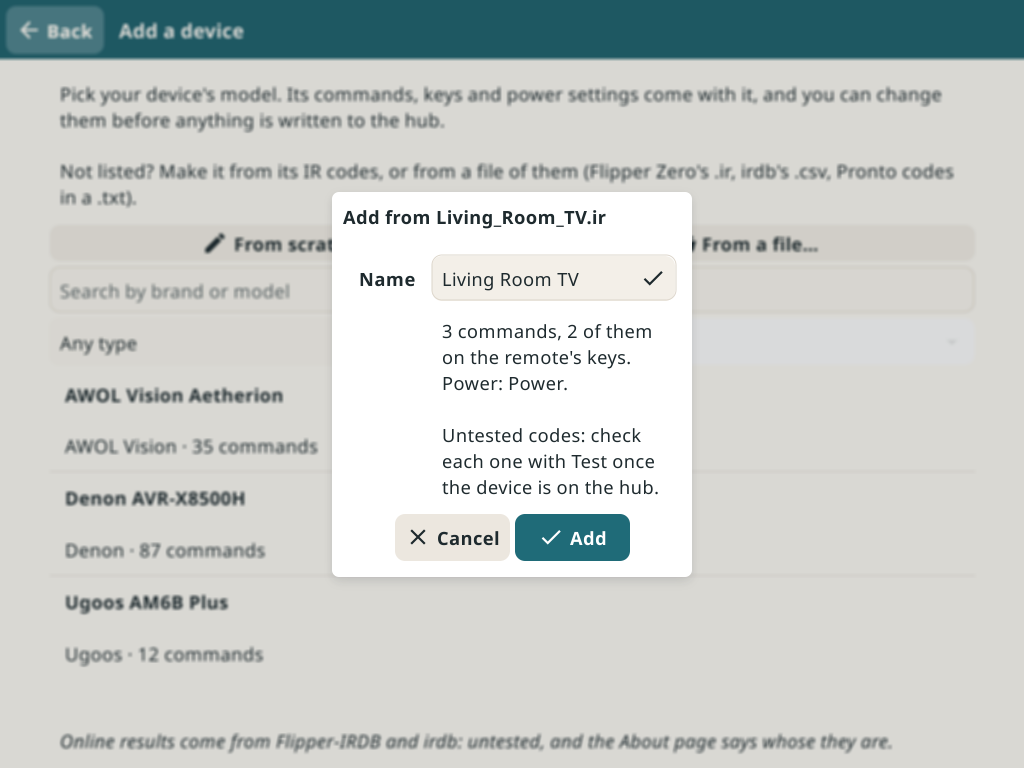
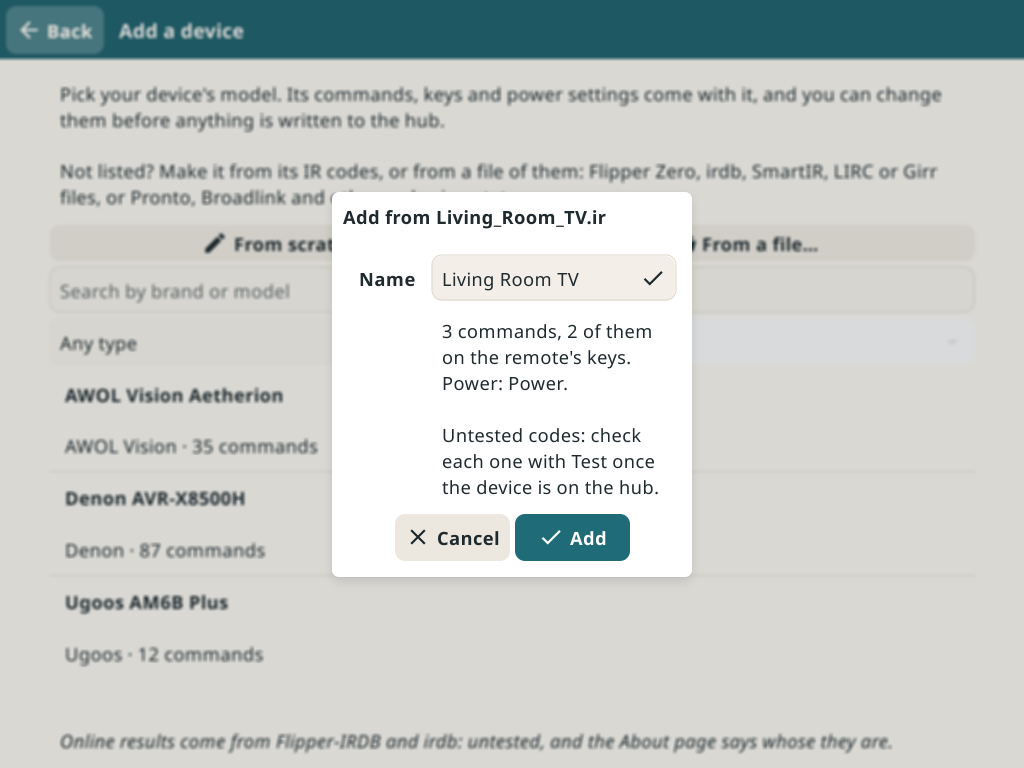
Add a device reads SmartIR, LIRC, Girr, and sendir, Broadlink and Unfolded Circle codes (#50)

Changed region(s): [[0.6875, 0.1875, 0.9375, 0.25], [0.0625, 0.25, 0.3438, 0.2812], [0.5625, 0.2188, 0.5938, 0.25]]

diff --git a/internal/workspace/irfile.go b/internal/workspace/irfile.go
@@ -13,7 +13,7 @@ import (
 )
 
 // IRFileExts are the extensions of the files of IR codes FromIRFile reads.
-var IRFileExts = []string{".ir", ".csv", ".txt"}
+var IRFileExts = []string{".ir", ".csv", ".json", ".conf", ".lircd", ".girr", ".xml", ".txt"}
 
 // Imported is a device made of a file of IR codes, with the codes left
 // out of it.
@@ -23,9 +23,11 @@ type Imported struct {
 }
 
 // FromIRFile makes a device of a file of IR codes named file: Flipper
-// Zero's .ir, irdb's .csv, or Pronto codes (.txt). Its commands named like a key of the remote
-// are set on that key, and its power commands make its power; codes the
-// X2 cannot send yet are left out, and listed.
+// Zero's .ir, irdb's .csv, SmartIR's .json, LIRC's .conf, Girr, or codes
+// one a line in a .txt (Pronto, sendir, Broadlink, Unfolded Circle). Its
+// commands named like a key of the remote are set on that key, and its
+// power commands make its power; codes the X2 cannot send are left out,
+// and listed.
 func FromIRFile(file string, r io.Reader) (*Imported, error) {
 	sigs, err := irfile.Read(file, r)
 	if err != nil {

diff --git a/internal/ui/edit.go b/internal/ui/edit.go
@@ -165,7 +165,7 @@ func (a *App) showAddDevice() {
 	scratch := widget.NewButtonWithIcon(i18n.T("From scratch"), theme.DocumentCreateIcon(), a.showScratch)
 	fromFile := widget.NewButtonWithIcon(i18n.T("From a file…"), theme.FolderOpenIcon(), a.importIRFile)
 	notListed := container.NewVBox(
-		wrapped(i18n.T("Not listed? Make it from its IR codes, or from a file of them (Flipper Zero's .ir, irdb's .csv, Pronto codes in a .txt).")),
+		wrapped(i18n.T("Not listed? Make it from its IR codes, or from a file of them: Flipper Zero, irdb, SmartIR, LIRC or Girr files, or Pronto, Broadlink and other codes in a .txt.")),
 		container.NewThemeOverride(container.NewGridWithColumns(2, scratch, fromFile), tightKeys{}))
 	credit := wrapped(i18n.T("Online results come from Flipper-IRDB and irdb: untested, and the About page says whose they are."))
 	credit.TextStyle.Italic = true

diff --git a/PLAN.md b/PLAN.md
@@ -428,8 +428,11 @@ drag-reorder lists.
       codes (.txt) import, and RC5, RCA, Pioneer, NEC42, 16-bit NEC and
       other vendors' Kaseikyo become timings, in files and in the online
       search's; "From scratch" makes RC5, RCA and Pioneer devices; devices
-      of learned codes restore. Next formats: Broadlink (SmartIR), LIRC,
-      Global Caché, Unfolded Circle.
+      of learned codes restore.
+- [x] More files of IR codes in "Add a device" (the library's irfile):
+      SmartIR's .json (Broadlink codes), LIRC's .conf, Girr, and codes one
+      a line in a .txt (Pronto, Global Caché's sendir, Broadlink's,
+      Unfolded Circle's). Next: exporting a device's codes in them.
 - [ ] Later: the profile library server (section 10).
 
 ## 10. The profile library server (later; not built yet)
